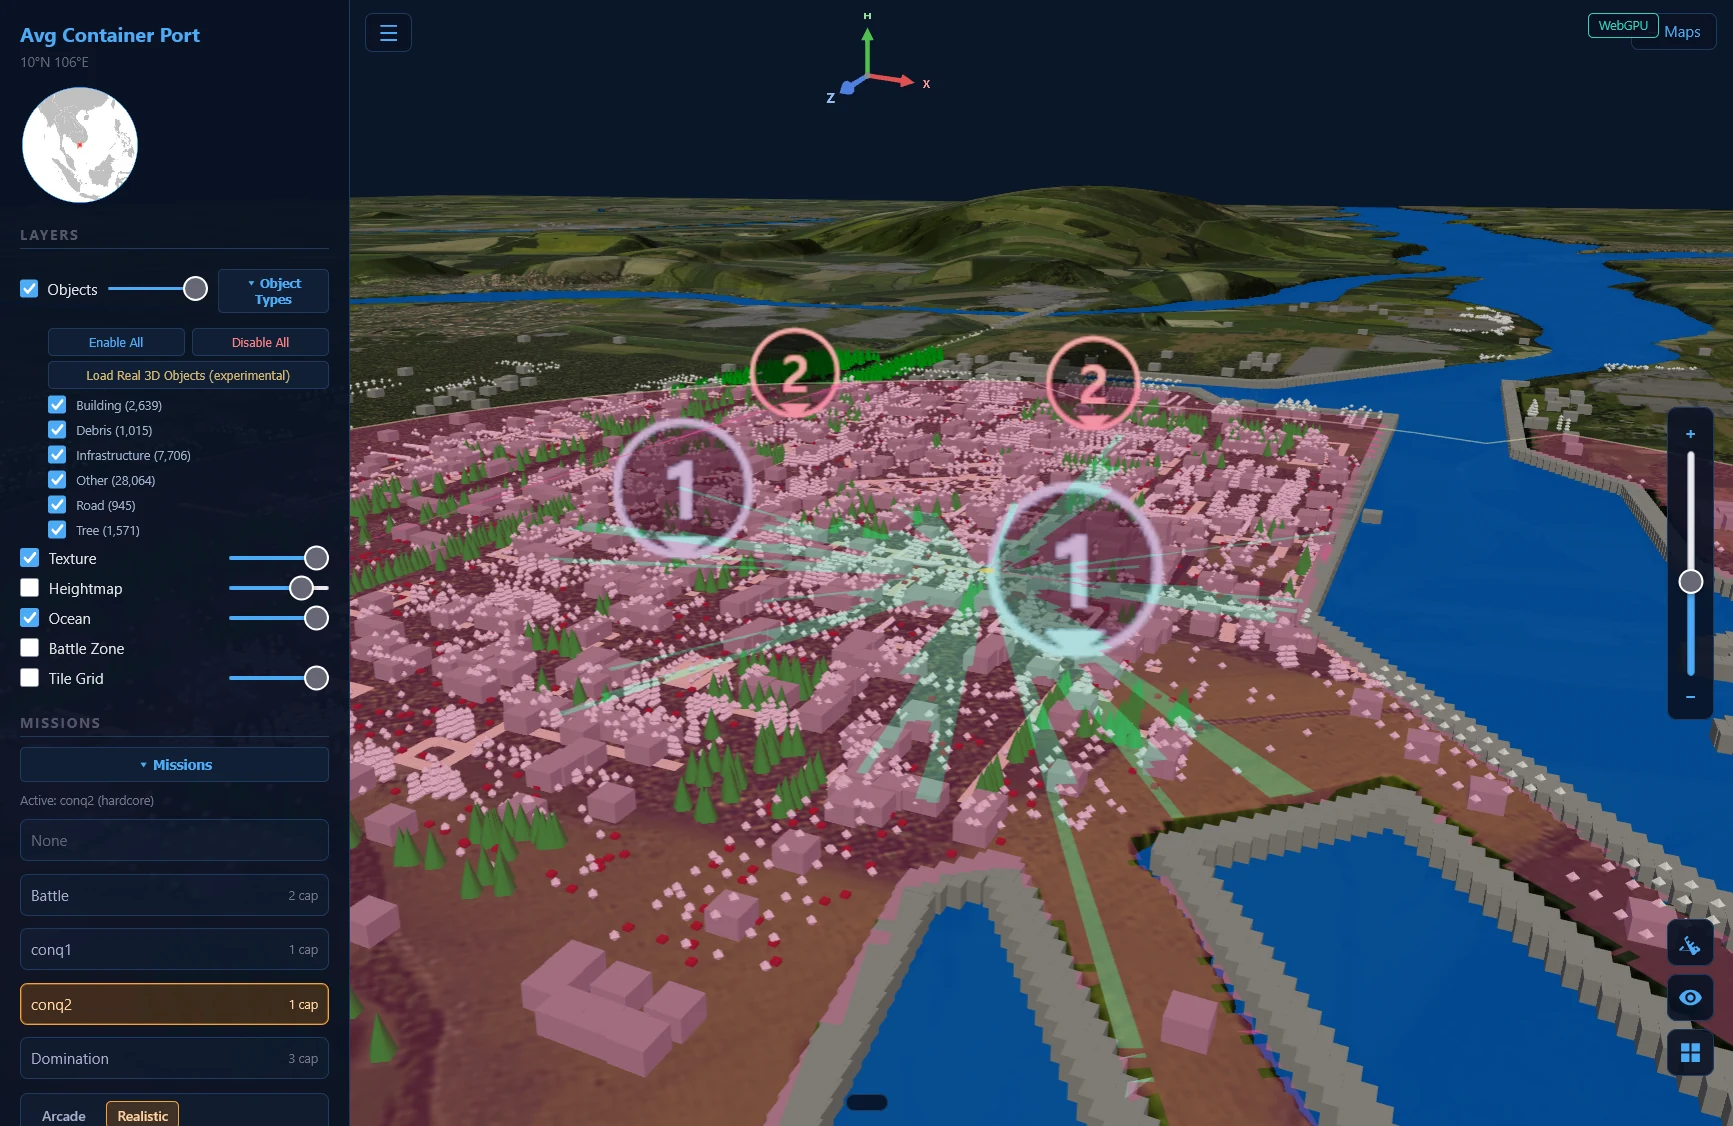
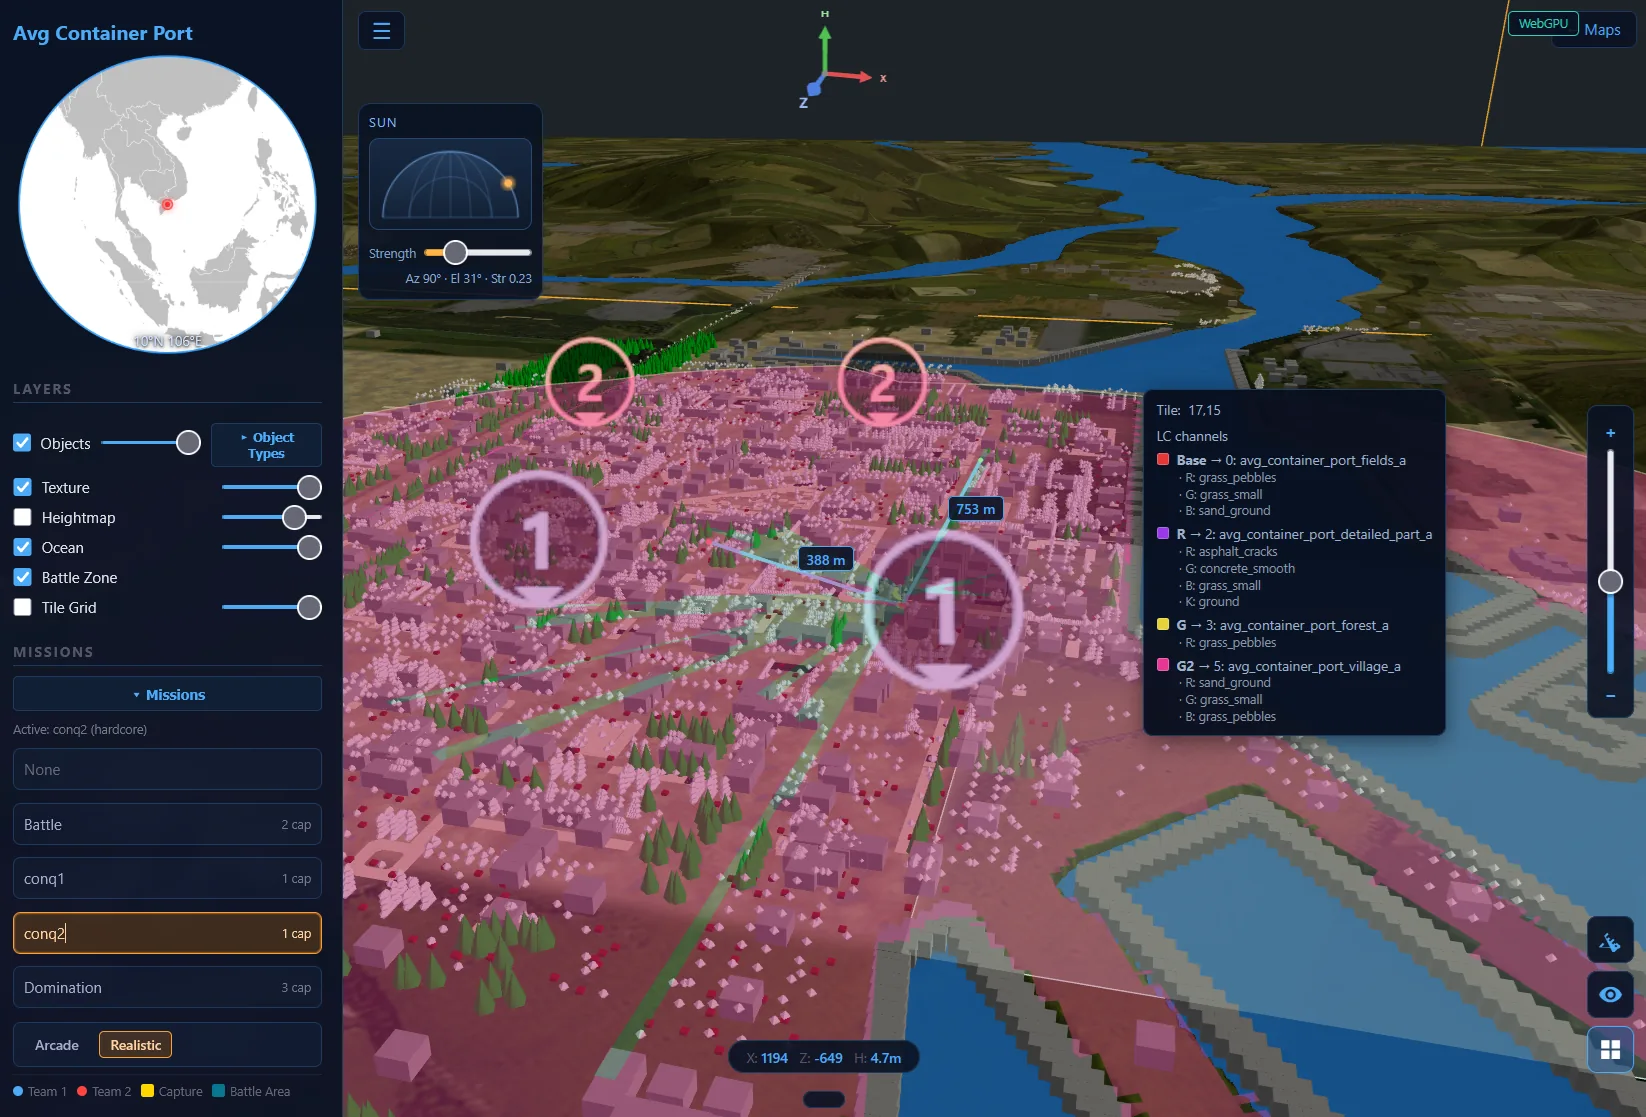
updated Example screenshot

diff --git a/src/web/tools/los.js b/src/web/tools/los.js
@@ -96,7 +96,7 @@ export function buildLosMesh({
   }
 
   const mk = new THREE.Mesh(
-    new THREE.SphereGeometry(planeSize * 0.0005, 12, 8),
+    new THREE.SphereGeometry(planeSize * 0.0007, 12, 8),
     new THREE.MeshBasicMaterial({ color: 0xffff00, depthTest: false })
   );
   mk.position.copy(eyePt);